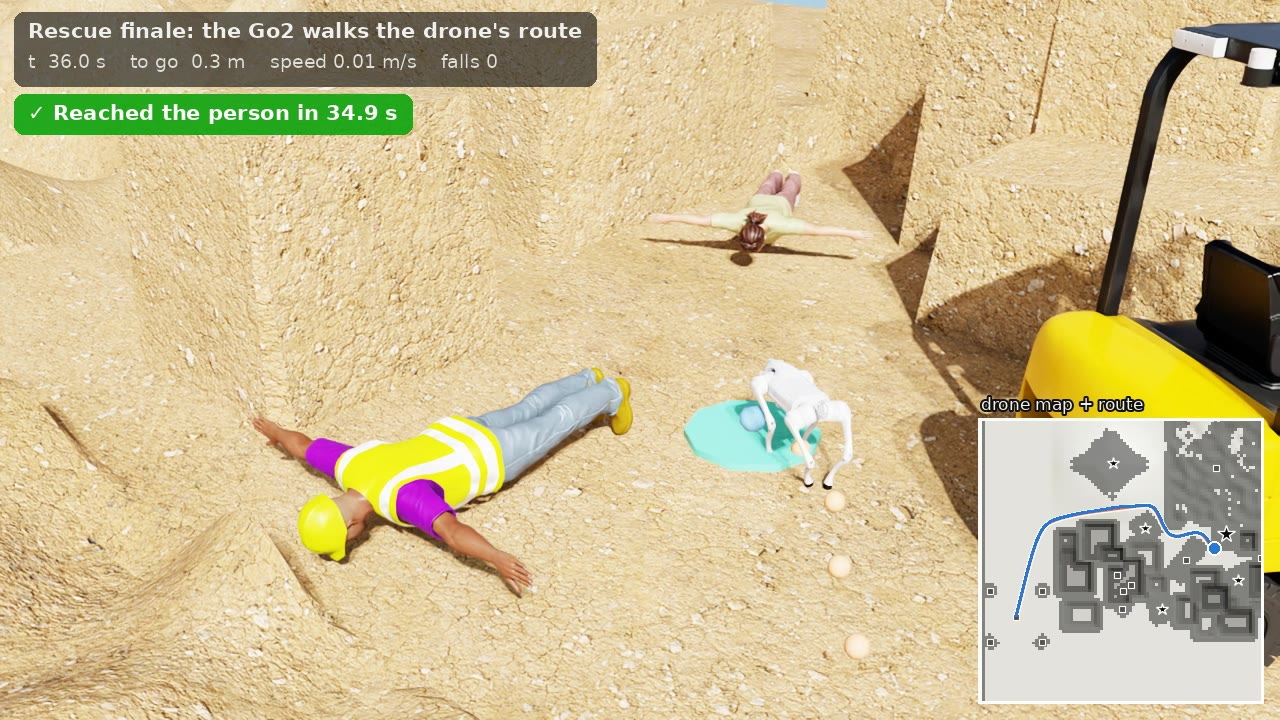
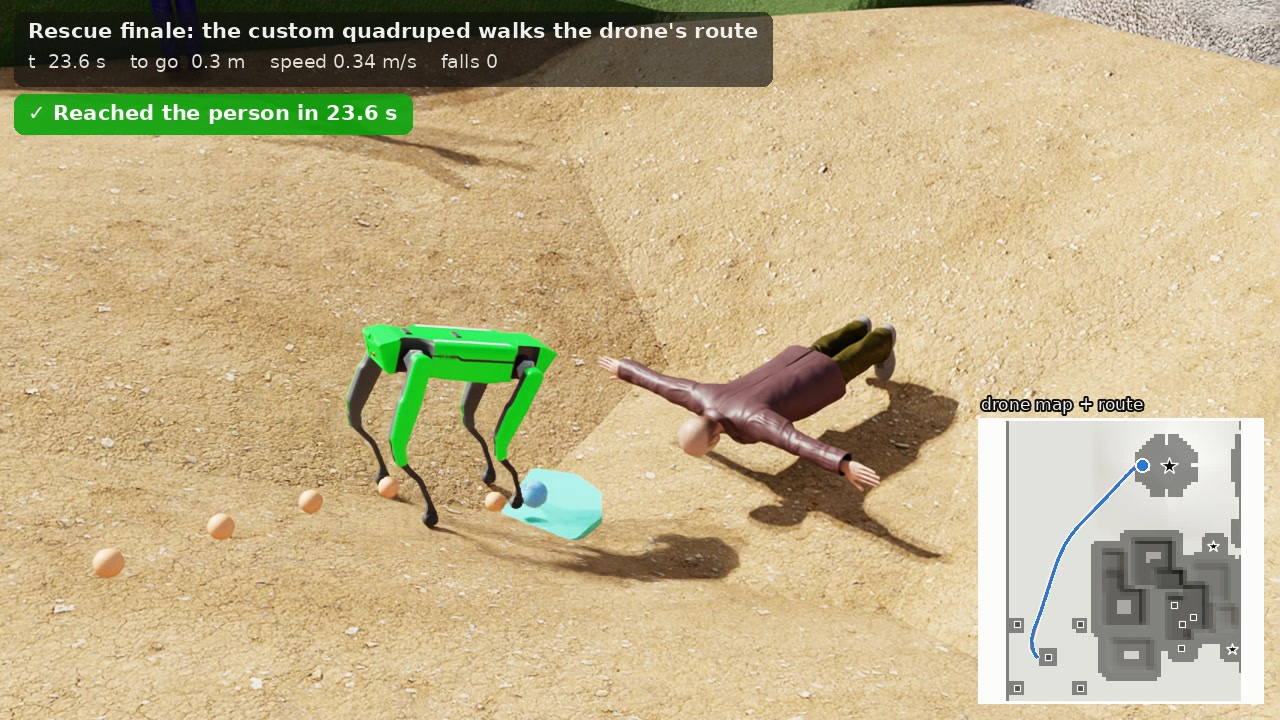
Document the rescue finale with the custom quadruped
The quadruped plans on the full mission's report and walks down into
the crater to the person the drone found: results of the 8-robot
checks on the mission reports, the survey map and the ground truth,
the planner limits of each robot, the PhysX fix for the textured
site, and the Go2 fallback.

diff --git a/sim/src/drone_lab/teaming/README.md b/sim/src/drone_lab/teaming/README.md
@@ -1,15 +1,17 @@
 # Rescue finale: air-ground teaming
 
-After the drone's survey, a ground robot (a Unitree Go2 running Isaac Lab's rough-terrain locomotion policy) gets
-the drone's elevation map and the person pins. It plans a safe route over the rubble and walks to a person.
+After the drone's survey, a ground robot gets the drone's elevation map and the pins of what it found, plans a safe
+route over the rubble and walks to a person. The robot is Hector's own quadruped (`quadruped_lab`, the converted
+Isaac Lab 2.x height-scan policy) on Isaac Sim PhysX, the same backend as the drone mission, on the same seeded
+terrain and dressed disaster site. A Unitree Go2 on Newton is the fallback.
 
 ```
 drone elevation map ─┐
    (or ground truth) │   traversability.py           planner.py                  follower.py               Isaac Lab
-pins (people, props) ┴─► slope / step / roughness ─► cost-weighted 8-conn. A* ─► pure pursuit ─────────► Go2 policy
-                         + object footprints          start/goal snapping         (vx, vy, yaw rate)        (unchanged)
-                         + robot-radius inflation     shortcuts + smoothing       clipped to the policy's   walks on the
-                         = cost map (inf = no-go)     = route                     command ranges            same terrain
+pins (people, props) ┴─► slope / step / roughness ─► cost-weighted 8-conn. A* ─► pure pursuit ─────────► locomotion
+                         + object footprints          start/goal snapping         (vx, vy, yaw rate)        policy
+                         + robot-radius inflation     shortcuts + smoothing       clipped to the policy's   (unchanged)
+                         = cost map (inf = no-go)     = route                     command ranges
 ```
 
 ## Run it
@@ -18,93 +20,120 @@ From `~/isaac_ws/projects/drone_lab`, in `env_isaaclab` (`source ~/anaconda3/etc
 activate env_isaaclab`):
 
 ```bash
-# CPU only: plan on the terrain ground truth and write runs/<out>/plan.png + plan.json
+# CPU only: plan on the ground truth of the mission's site (seed 0) and write runs/<out>/plan.png + plan.json
 CUDA_VISIBLE_DEVICES= python scripts/rescue_finale.py --plan_only --out rescue_plan
 
-# walk it with the Go2 (Newton physics, the backend the checkpoint was trained on) and record the follow-cam video
-python scripts/rescue_finale.py --video --out rescue_gt
+# walk it with the custom quadruped (Isaac Sim PhysX) and record the follow-cam video
+python scripts/rescue_finale.py --video --out finale
 
-# the dressed disaster site the drone flies over (people, props, ground materials); the robot starts on the
-# landing pad and walks to a person picked from the site's ground truth (about 20 m away, reachable)
-python scripts/rescue_finale.py --sar_seed 0 --video --out rescue_sar0
-python scripts/rescue_finale.py --sar_seed 0 --goal_pin person_08 --video --out crater   # a chosen person
+# 8 robots on the same route at once (small spawn jitter): success rate, falls, times
+python scripts/rescue_finale.py --num_envs 8 --out finale_x8
 
-# from a drone run: its elevation map and pins (drone_lab survey run or drone_gcs run directory)
-python scripts/rescue_finale.py --run runs/<survey_run> --pins <detections.json> --video --out from_drone
-# the drone's survey map of the plain terrain + the dressed site's people and props (exact footprints)
-python scripts/rescue_finale.py --run runs/lawnmower_v1 --sar_seed 0 --video --out rescue_drone_sar0
+# from the drone mission: its map and pins (a drone_gcs report directory, or a drone_lab survey run)
+python scripts/rescue_finale.py --report ~/isaac_ws/projects/drone_gcs/runs/<mission> --video --out from_drone
+python scripts/rescue_finale.py --report runs/lawnmower_v1 --video --out from_survey   # map only: site pins
 
-# the drone mission's backend (Isaac Sim PhysX) resolves too, but today's Go2 checkpoint (trained on Newton) does
-# not walk there: it flips within 1-2 s (see "Physics backend" below)
-python scripts/rescue_finale.py --physics isaacsim_physx --video --out rescue_physx
+# another person, stricter limits, another site
+python scripts/rescue_finale.py --goal_pin person_04 --video --out person04
+python scripts/rescue_finale.py --max_slope 22 --video --out rim                    # stays on the crater rim
+python scripts/rescue_finale.py --sar_seed 3 --video --out site3
 
-# several robots on the same route at once (small spawn jitter): a success rate
-python scripts/rescue_finale.py --num_envs 8 --out rescue_x8
-```
-
-Watch it live in Isaac Lab's player (plans its own route on the stage terrain at start-up, loops the walk):
-
-```bash
-PYTHONPATH=src isaaclab play --rl_library rsl_rl --external_callback drone_lab.register.register_tasks \
-    --task DroneLab-Rescue-Go2-v0 --viz kit \
-    --checkpoint ~/isaac_ws/IsaacLab/logs/rsl_rl/unitree_go2_rough/2026-11-01_15-38-28_demo_quadruped_cont/model_1498.pt
+# the Go2 fallback (Newton, the backend its checkpoint was trained on)
+python scripts/rescue_finale.py --robot go2 --video --out finale_go2
 ```
 
 Outputs in `runs/<out>/`: `plan.png` (elevation + traversability cost with the route), `plan.json` (route, pins,
-settings), `traversability.npz` (all layers), `walk.csv` (per step: pose, velocities, command, progress,
-cross-track error, distances, falls), `walk.png` (walked vs planned, speed, distance to the goal),
-`summary.json` / `summary.txt` (success, time, planned and walked length, falls, stop distance, clearance) and,
-with `--video`, `rescue.mp4`: a title card with the plan, the follow-cam walk with a minimap and a HUD, and an end
-card with the result. `rescue_share.mp4` is the same video about 5x smaller (x264 crf 26: 6-11 MB instead of
-29-55 MB) for a README or a chat.
+settings, and for a drone report which real person the goal pin marks), `traversability.npz` (all layers), `walk.csv`
+(per step: pose, velocities, command, progress, cross-track error, distances, falls), `walk.png` (walked vs planned,
+speed, distance to the goal), `summary.json` / `summary.txt` (success, time, planned and walked length, falls,
+stop distance, clearance; with several robots the success rate and every robot's result) and, with `--video`,
+`rescue.mp4`: a title card with the plan, the follow-cam walk with a minimap and a HUD, and an end card with the
+result. `rescue_share.mp4` is the same video about 5x smaller (x264 crf 26) for a README or a chat.
 
-**A drone map and the landing pad.** A `drone_lab` survey map covers the surveyed 40 m x 40 m terrain, but the
-landing pad (where the robot starts) sits on the flat 6 m border around it. When the start lies off the map, the
-planner adds that border to the map: the drone's cells stay as measured, the added cells that lie entirely on the
-border get its height (z = 0, the top of the generator's flat border; a test checks it against the terrain mesh),
-and terrain the drone did not see stays unknown (no-go). The log says so. `--no_apron` plans on the drone map
-alone; the start then moves onto the map edge, with a warning.
+**Inputs.** `--report` takes a `drone_gcs` mission report (`maps/elevation_mean.npy` + `maps/grid.json`, pins from
+`detections.json`, confirmed ones only) or a `drone_lab` survey run (`elevation_map.npy`; such a run has no pins, so
+the site's ground truth gives them). Without a report the planner uses the ground truth: the exact terrain mesh the
+simulator builds and the people and props of the dressed site (`--sar_seed`, default 0 = the mission's demo site),
+with their exact footprints. The simulator always spawns that site (`--plain_terrain`: the bare terrain with one
+person at the goal). With a report the goal pin is checked against the site's ground truth: the log, `plan.json` and
+the summary say which real person it marks and how far off the pin is.
 
-## Results (2026-11-01, RTX 5080, Newton physics)
+**The landing pad and the apron.** The robot starts on the drone's landing pad, which sits on the flat 6 m border
+around the surveyed area. A `drone_lab` survey map does not cover that border, and a `drone_gcs` map knows only the
+parts the drone happened to scan. The planner fills in the border: every cell that lies entirely on it and has no
+measurement gets its height (z = 0, the top of the generator's flat border; a test checks it against the terrain
+mesh), the drone's cells stay as measured, and terrain the drone did not see stays unknown (no-go). `--no_apron`
+plans on the drone map alone (a start off the map then moves onto the map edge, with a warning).
 
-| Run | Route | Outcome | Time | Planned / walked | Falls | Stopped from the person |
-|---|---|---|---|---|---|---|
-| `--video` (ground truth, default goal) | landing pad -> crater rim -> gap between collapsed buildings | reached | 33.0 s | 24.0 / 23.8 m | 0 | 1.56 m (body centre; lying) |
-| `--sar_seed 0 --video` (dressed site) | landing pad -> crater's west rim -> person_05 on the hill | reached | 25.8 s | 18.7 / 18.5 m | 0 | 0.88 m |
-| `--sar_seed 0 --goal_pin person_08 --max_slope 26 --video` | down into the crater (to z = -1.4 m) | reached | 21.6 s | 14.5 / 14.5 m | 0 | 1.89 m |
-| `--run runs/lawnmower_v1 --sar_seed 0 --video` (the drone's map, Isaac Sim survey) | landing pad -> north along the border -> crater rim -> person_03 lying among the collapsed buildings | reached | 34.9 s | 25.2 / 25.0 m | 0 | 1.53 m |
-| `--num_envs 8` x 2 routes x 2 checkpoints, no retries | default route; crater descent (`--goal -14.77 -4.85`) | 8/8 each | 32-35 s | 24.0 m; 24.1 m planned | 0 | - |
-| stress: `--max_slope 30 --max_step 0.2 --max_roughness 0.08`, 8 robots x 2 checkpoints | hill (`--goal -16 5`, up to z = 2.2 m); crater (down to z = -1.4 m) | 8/8 each | 22-43 s | 30.4 m; 14.6 m planned | 0 | - |
+## The robots (`robots.py`)
 
-Mean cross-track error 1.3-4.5 cm (max 6-17 cm). The policy is
-`IsaacLab/logs/rsl_rl/unitree_go2_rough/2026-11-01_15-38-28_demo_quadruped_cont/model_1498.pt`: today's 600-iteration
-Go2 run resumed for 900 more iterations on Newton. On the training curriculum it falls 4x less often
-(base-contact terminations 5.1 % vs 19.2 %, mean reward 26.9 vs 19.0); on the finale routes both checkpoints
-reach the person every time, so the planner's limits leave the robot a safety margin.
+| `--robot` | Policy | Physics | Planner limits |
+|---|---|---|---|
+| `custom` (default) | `quadruped_lab/checkpoints_2x/height_scanner_model_rslrl5.pt` (task `Isaac-Velocity-Rough-Custom-Quad-v0`) | Isaac Sim PhysX | slope 23 deg, step 0.15 m, roughness 0.05 m, robot radius 0.45 m, slope fit over 0.45 m |
+| `go2` | `IsaacLab/logs/rsl_rl/unitree_go2_rough/2026-11-01_15-38-28_demo_quadruped_cont/model_1498.pt` | Newton (MJWarp) | slope 22 deg, step 0.12 m, roughness 0.05 m, robot radius 0.35 m, slope fit over 0.35 m |
 
-**Physics backend.** The Go2 checkpoint was trained on Newton (`newton_mjwarp`), and the task uses Newton by
-default; the survey terrain, the dressed SAR site (MDL ground materials, props, people) and the Kit follow camera all
-work with it. On Isaac Sim PhysX (`--physics isaacsim_physx`) the same task and spawn fail: 4/4 robots flip within
-0.9-2.1 s, with either actuator execution path (`env.sim.use_newton_actuators=false` too), so it is a sim-to-sim gap of
-the checkpoint, not of the task. Sharing one PhysX scene with the drone would need a Go2 policy trained (or
-fine-tuned) with `physics=isaacsim_physx`.
+The custom quadruped trained on slopes up to 0.4 rise/run (21.8 deg), stairs up to 0.23 m, boxes up to 0.1 m and
+random rough ground up to 0.06 m. It is 0.89 m long and 0.47 m wide (feet included) and walks with its trunk about
+0.7 m up, so it gets a larger clearance than the Go2 and the slope is fitted over half its body length. Fitted that
+way, the crater walls of the demo site reach about 24 deg. At 23 deg the routes into the crater run down the fall
+line and end on the crater floor. At 24 deg the planner also takes the steepest parts of the wall: on the ground
+truth the robots still walked straight down them (8 of 8), but on the drone's map the last two metres then ran
+across the wall, and while slowing down for the goal the robots drifted 0.4 m downhill and ended beside the person's
+legs (still 8 of 8 reached). With `--max_slope 22` the route stays on the crater rim and stops on the slope 1.8-2.2 m
+from the person. The `--max_*` and `--robot_radius` flags override any limit; `--task`, `--checkpoint`, `--physics`,
+`--speed` and `--lookahead` override the robot's walk settings.
+
+## Results (2026-11-01, RTX 5080)
+
+**Custom quadruped, Isaac Sim PhysX, dressed site seed 0**, robots starting on the landing pad, 8 at once (small
+spawn jitter), no second tries:
+
+| Map and pins | Route | Robots reached | Time | Planned / walked | Falls |
+|---|---|---|---|---|---|
+| the drone mission's report (`drone_gcs/runs/sar_demo_seed0`: full survey, 9 of 9 people found) | border, then down the crater wall to the drone's pin of person_08 (0.24 m from the true centre) | 8/8 | 23.1-23.7 s | 16.1 / 15.9 m | 0 |
+| a partial mission report (`e2e_v2_gt`: the first 90 s of the flight, 5 people found) | border, past the crates to the drone's pin of person_02 (0.15 m off) | 8/8 | 20.0-20.9 s | 12.8 / 12.7 m | 0 |
+| the drone's survey map `runs/lawnmower_v1` (no detections: site pins) | down the crater wall to person_08 | 8/8 | 23.2-23.7 s | 16.0 / 15.7 m | 0 |
+| ground truth (default) | down the crater's south-west wall to person_08, lying face down on the crater floor (z = -1.1 m) | 8/8 | 22.5-23.1 s | 15.6 / 15.4 m | 0 |
+| ground truth, `--goal_pin person_04` | past the collapsed buildings to person_04, lying face up | 8/8 | 29.7-30.1 s | 18.6 / 18.4 m | 0 |
+| ground truth, `--max_slope 22` | along the crater's north rim, stops on the slope above person_08 | 8/8 | 35.0-35.8 s | 23.7 / 23.1 m | 0 |
+
+Mean cross-track error 2-6 cm (max 10-32 cm), walking speed 0.55-0.65 m/s at a cruise command of 0.7 m/s. The robots
+stop 1.2-2.2 m from the person's centre (the person's outline or, for a drone pin, a 1.2 m circle, plus the robot's
+clearance); from the full mission report 1.35-1.68 m from the real person's centre. With `--video` (one robot): the
+mission report 23.6 s, the ground truth 22.7 s, no falls. In the mission report the detector also pinned a "barrel"
+4.3 m above the landing pad (one of its three false alarms); the planner keeps clear of every pin, so that robot
+starts 0.75 m west of the pad's centre.
+
+**Go2 fallback, Newton**, the same dressed site: `--robot go2 --num_envs 4` reached person_08 4/4 along the crater
+rim (its limits keep it off the steeper wall), 32.5-32.7 s, 23.7 m, 0 falls.
+
+## PhysX and the textured site
+
+The site textures the terrain by binding MDL ground materials to face subsets (`UsdGeom.Subset`, family
+`materialBind`) of the terrain mesh. On Isaac Sim PhysX a collision mesh with such subsets stops colliding with the
+robot: off the 4 cm landing-pad disk (a separate collider) the custom quadruped fell straight through the ground,
+and on the pad it stamped in place (0 m of progress in 7 s). Binding the terrain's physics material to every
+subset does not change that; without the subsets the robot walks normally. The drone never touches the terrain, so
+the mission is not affected. The rescue tasks therefore spawn the site with `tasks/rescue/site.py`: the site is
+unchanged, then the textured subsets move to a render-only copy of the terrain mesh (`/World/sar/ground_visual`) and
+the collision mesh, which keeps its geometry, collider and physics material, is hidden. The robot's height scanner
+reads that same collision mesh.
 
 ## How it works
 
 **Traversability** (`traversability.py`). For every cell of the elevation grid:
 
-* *slope*: a least-squares plane over a disk of `footprint_radius_m` (0.35 m) around the cell, in degrees;
+* *slope*: a least-squares plane over a disk of `footprint_radius_m` around the cell, in degrees;
 * *roughness*: the RMS residual of that plane fit;
 * *step*: the largest height jump to a cell within `step_radius_m` (0.25 m) after removing the local slope. The
   local slope is the *minmod* of the one-sided differences, so a smooth incline has no step while the flat side of
   a ledge sees the full ledge height.
 
-A cell is no-go when the slope exceeds 22 deg, the step 0.12 m or the roughness 0.05 m (the top of the Go2's
-training curriculum), when nothing is known there (never seen by the drone), or when it lies inside a known object
-footprint (circles per class, or the exact outline from a ground-truth file). No-go cells are inflated by the robot
-radius (0.35 m), and a soft band beyond that keeps the route off edges when there is room. Free cells cost
-`1 + 6 (slope/22)^2 + 4 (step/0.12)^2 + 3 (roughness/0.05)^2 + band` per metre, so flat open ground costs 1 and
-the planner pays for every degree and every centimetre.
+A cell is no-go when the slope, the step or the roughness exceeds the robot's limit, when nothing is known there
+(never seen by the drone), or when it lies inside a known object footprint (circles per class, or the exact outline
+from a ground-truth file). No-go cells are inflated by the robot radius, and a soft band beyond that keeps the route
+off edges when there is room. Free cells cost `1 + 6 (slope/max)^2 + 4 (step/max)^2 + 3 (roughness/max)^2 + band`
+per metre, so flat open ground costs 1 and the planner pays for every degree and every centimetre.
 
 **Planner** (`planner.py`). 8-connected A* where a move costs its length times the mean cost of its two cells, with
 an octile heuristic scaled by the cheapest cell (admissible, so the path is optimal on the grid; a test checks it
@@ -112,36 +141,49 @@ against Dijkstra). Diagonal moves may not cut the corner of a no-go cell. The st
 the goal (a person, whose own cells are no-go) snaps to the nearest free cell *reachable from the start*, so the
 robot stops next to the person. The grid path is then shortcut by line of sight (never through a no-go cell, never
 more expensive than the stretch it replaces), its corners are rounded where that stays safe, and it is resampled
-every 0.1 m.
+every 0.1 m. Without `--goal` / `--goal_pin` the script tries the people 15-25 m from the start first, lying ones
+first, nearest to 20 m first, and takes the first one it can reach.
 
 **Follower** (`follower.py`). Pure pursuit: the closest point on the route is searched only around the previous
 progress (so a route that folds back is never skipped), the target is 0.8 m further along, and the robot steers on
 the arc through it (`kappa = 2 sin(alpha) / L`). Speed drops on tight arcs, when the target is off to the side and
 over the last metre; above 1 rad of heading error the robot turns on the spot. A small sideways velocity pulls it
 back onto the route. Every command is clipped to the policy's training ranges (`vx, vy, yaw rate` in [-1, 1]); the
-minimum driving speed is 0.3 m/s because the policy stands still for much smaller commands.
+minimum driving speed is 0.3 m/s because the policies stand still for much smaller commands.
 
-**Task** `DroneLab-Rescue-Go2-v0` (`drone_lab/tasks/rescue/`). The config is Isaac Lab's
-`Isaac-Velocity-Rough-UnitreeGo2` with only what the finale needs changed (`apply_rescue_task`, robot-agnostic):
-the survey terrain (`SURVEY_TERRAIN_CFG`, same seed: the same mesh the drone mapped), the `base_velocity` command
-replaced by the path-following command under the same name (the policy observation `velocity_commands` reads it
-unchanged), observation noise off, deterministic events (no mass / CoM randomisation, no pushes), the robot spawned
-on the route, a flip check and a `goal_reached` time-out. The policy observations (235 values: base velocities,
-gravity, command, joints, last action, 187-ray height scan) are identical to the training task, so the Go2
-checkpoint drives it as is. After a fall the robot respawns where it fell (`--retries`, default 2); falls are
-counted in the summary.
+**Tasks** (`drone_lab/tasks/rescue/`). `apply_rescue_task` (robot-agnostic) turns a velocity-tracking config into the
+rescue task: the survey terrain (`SURVEY_TERRAIN_CFG`, same seed: the same mesh the drone mapped), optionally dressed
+as the SAR site of a seed, the `base_velocity` command replaced by the path-following command under the same name
+(the policy observation `velocity_commands` reads it unchanged), observation noise off, deterministic events (no
+mass / centre-of-mass randomisation, no pushes), the robot spawned on the route, a flip check and a `goal_reached`
+time-out. The policy observations (235 values: base velocities, gravity, command, joints, last action, 187-ray
+height scan) are those of the training task, so the checkpoints drive the robots as they are.
+
+* `DroneLab-Rescue-CustomQuad-v0`: `quadruped_lab`'s `CustomQuadRoughEnvCfg` (same robot, actuators, actions,
+  observations, command ranges, falls = trunk or thigh contact as in training) on the dressed site of seed 0
+  (`env.scene.sar_site.spawn.seed=<n>`). Isaac Sim PhysX only, with the two execution settings under which the
+  converted 2.x checkpoint walks as it did in Isaac Lab 2.3.2 (`quadruped_lab/PORT_NOTES.md`, section 14.2):
+  `sim.use_newton_actuators = False` and `enable_external_forces_every_iteration = False`. The robot respawns
+  0.719 m above the ground, its training reset height.
+* `DroneLab-Rescue-Go2-v0`: Isaac Lab's `Isaac-Velocity-Rough-UnitreeGo2` on Newton by default (its checkpoint flips
+  within about 2 s on PhysX, a sim-to-sim gap of that checkpoint), on the plain terrain with one person unless the
+  script adds the site.
+
+After a fall the robot respawns where it fell, a little behind (`--retries`, default 2); falls are counted.
 
 ## Tests
 
 ```bash
 ~/anaconda3/bin/python -m pytest tests/test_teaming_*.py          # CPU (the task tests skip without Isaac Lab)
-CUDA_VISIBLE_DEVICES= python tests/test_teaming_task.py              # env_isaaclab: task config + CLI plan mode
+CUDA_VISIBLE_DEVICES= python tests/test_teaming_task.py              # env_isaaclab: task configs + CLI plan mode
 CUDA_VISIBLE_DEVICES= python tests/run_cpu_tests.py                  # env_isaaclab: the whole project, these included
 ```
 
 Traversability on synthetic grids (planes, ledges, noise, holes, footprints, inflation), A* optimality against
 Dijkstra and obstacle avoidance, snapping and smoothing, failure reasons (a start off the map or boxed in is
 reported once, not once per person), follower limits / steering / goal / progress and a closed-loop run on an
-S-curve, input formats and figures, the border added around a survey map (lattice kept, drone cells unchanged,
-equal to the terrain mesh, start on the landing pad from the CLI), and the task config's parity with the Go2
-training task.
+S-curve, input formats and figures, the apron (added around a survey map, filled in on a site-sized map; drone
+cells unchanged, equal to the terrain mesh), both rescue tasks' parity with the velocity task their checkpoint was
+trained on (observations, actions, robot, sensors, command ranges, physics settings), the textured site terrain
+moved to a render-only mesh (in-memory USD stage), the robot profiles, and the CLI on the ground truth, a survey map
+and a drone_gcs mission report (start on the landing pad, drone pins only, the goal pin checked against the truth).

diff --git a/sim/README.md b/sim/README.md
@@ -149,43 +149,53 @@ with the block walls). Closest approach to an obstacle: 2.4 m, the crown of a tr
 steps per second headless (1.7-2.1x real time) and the link costs it 0.9 ms per step. Comparison with the stock
 COCO detector, the geometry check with perfect boxes and the loop rates: the drone_gcs README (Results).
 
-## Rescue finale: a quadruped walks the route planned on the drone's map
+## Rescue finale: Hector's quadruped walks to a person the drone found
 
-After the survey, a ground robot goes to a person the drone found. A Unitree Go2, driven by Isaac Lab's
-rough-terrain locomotion policy (unchanged), gets the drone's elevation map and the pins of the people and objects.
-It works out where it can walk (slope, step height, roughness, object footprints, its own size), plans the cheapest
-safe route with A*, and follows it with pure pursuit. It starts on the drone's landing pad, which sits on the flat
-border just outside the surveyed area, so the planner adds that border to the drone's map. Commands, method and
-tests: [`src/drone_lab/teaming/README.md`](src/drone_lab/teaming/README.md).
+After the mission, a ground robot goes to a person the drone found. Hector's own quadruped
+(`quadruped_lab`, the converted Isaac Lab 2.x height-scan policy, unchanged) gets the drone's
+elevation map and its pins of people and objects from the ground station's mission report. It works out where it
+can walk (slope, step height, roughness, object footprints, its own size), plans the cheapest safe route with A*,
+and follows it with pure pursuit. It starts on the drone's landing pad and walks on Isaac Sim PhysX, the drone
+mission's backend, over the same seeded terrain and dressed site. Commands, method and tests:
+[`src/drone_lab/teaming/README.md`](src/drone_lab/teaming/README.md).
 
-![The Go2 next to the person after walking the route planned on the drone's map](docs/images/rescue_finale_arrival.jpg)
+![The quadruped next to the person in the crater, after walking the route planned on the drone's map](docs/images/rescue_finale_arrival.jpg)
 
-![The route planned on the drone's elevation map, and the traversability cost](docs/images/rescue_finale_plan.png)
+![The route planned on the drone's elevation map and pins, and the traversability cost](docs/images/rescue_finale_plan.png)
 
-*Dressed site seed 0, route planned on the drone's map of the survey `runs/lawnmower_v1`: from the landing pad north
-along the border, past the crater rim, to a person lying among the collapsed buildings. Top: the arrival in the
-follow-cam video (the minimap shows the route and the walked track). Bottom: the elevation the robot planned on and
-the traversability cost with the no-go cells.*
+*Planned on the report of the full mission (`drone_gcs/runs/sar_demo_seed0`: 9 of 9 people found): from the landing
+pad along the border and down the crater wall to person #34, whom the drone saw lying in the crater (the pin is
+0.24 m from person_08's true centre). Top: the arrival in the follow-cam video, with the minimap of the drone's map
+and the walked track. Bottom: the elevation the robot planned on (the drone's map plus the known flat border around
+the surveyed area) and the traversability cost with the no-go cells.*
 
-| Map the route was planned on | Person | Outcome | Planned / walked | Falls |
+| Map and pins | Person | 8 robots at once, no second tries | Planned route | Falls |
 |---|---|---|---|---|
-| the drone's survey map (`--run runs/lawnmower_v1 --sar_seed 0`) | person_03, lying among the blocks | reached in 34.9 s | 25.2 / 25.0 m | 0 |
-| terrain ground truth (default) | lying between the collapsed buildings | reached in 33.0 s | 24.0 / 23.8 m | 0 |
-| ground truth, dressed site (`--sar_seed 0`) | person_05, standing on the hill | reached in 25.8 s | 18.7 / 18.5 m | 0 |
-| same, `--goal_pin person_08 --max_slope 26` | person_08, down in the crater | reached in 21.6 s | 14.5 / 14.5 m | 0 |
+| the full mission's report (`--report <drone_gcs run>`) | pin #34, lying in the crater (person_08) | 8/8 reached, 23.1-23.7 s | 16.1 m | 0 |
+| the first 90 s of a mission (5 people found) | pin #30, lying next to the crates (person_02) | 8/8, 20.0-20.9 s | 12.8 m | 0 |
+| the drone's survey map `runs/lawnmower_v1` + the site's pins | person_08 in the crater | 8/8, 23.2-23.7 s | 16.0 m | 0 |
+| terrain + site ground truth (default without a report) | person_08 in the crater | 8/8, 22.5-23.1 s | 15.6 m | 0 |
+| ground truth, `--goal_pin person_04` | person_04, lying by the collapsed buildings | 8/8, 29.7-30.1 s | 18.6 m | 0 |
+| ground truth, `--max_slope 22` | person_08, from the crater rim | 8/8, 35.0-35.8 s | 23.7 m | 0 |
 
-With 8 robots at once on two routes and no second tries, the 600- and the 1500-iteration checkpoints both reached the
-person 8/8 times, also with looser limits (30 deg slopes, 0.2 m steps). The drone flies on Isaac Sim PhysX and the
-Go2 walks on Newton, the backend its policy was trained on (on PhysX this checkpoint flips within about 2 s), so
-they run as two simulations of the same seeded terrain.
+The pins do not say whether a person is lying or standing; the height of a pin above the mapped ground does (a
+lying person's back is at most 0.4 m up, a standing person's head 1.3-1.8 m), so the planner picks a lying person
+15-25 m away first and gives them a larger footprint. The site's textured terrain needed one change for walking
+robots: on PhysX a collision mesh with material face subsets stops colliding (the robot fell through the ground), so
+the rescue tasks move the textures to a render-only copy of the terrain mesh. The Unitree Go2 with Isaac Lab's
+rough-terrain policy remains as a fallback (`--robot go2`, on Newton: that checkpoint flips within about 2 s on
+PhysX); it reached the crater person 4/4.
 
 ```bash
 CUDA_VISIBLE_DEVICES= python scripts/rescue_finale.py --plan_only --out rescue_plan    # CPU, seconds: plan only
-python scripts/rescue_finale.py --run runs/lawnmower_v1 --sar_seed 0 --video --out rescue_drone_sar0   # GPU walk
+python scripts/rescue_finale.py --report ~/isaac_ws/projects/drone_gcs/runs/<mission> --video --out finale_mission
+python scripts/rescue_finale.py --video --out finale_gt                  # without a report: the ground truth
+python scripts/rescue_finale.py --num_envs 8 --out finale_x8             # 8 robots at once: success rate, falls
 ```
 
-Each run writes `runs/<out>/plan.png`, `walk.png`, `summary.txt` and, with `--video`, `rescue.mp4` plus
-`rescue_share.mp4` (about 5x smaller, for sharing).
+Each run writes `runs/<out>/plan.png`, `walk.png`, `summary.txt` and, with `--video`, `rescue.mp4` (a title card
+with the plan, the follow-cam walk with a HUD and a minimap, an end card with the result) plus `rescue_share.mp4`
+(about 5x smaller, for sharing).
 
 ## Layout
 
@@ -203,12 +213,13 @@ src/drone_lab/
   register.py       task-registration callback for the isaaclab CLI without pip install
   sar/              search-and-rescue site: assets, seeded scenario + ground truth, camera, spawner, labels,
                     mission plan
-  teaming/          rescue finale: traversability, A* planner, pure-pursuit follower, drone-map inputs, figures
+  teaming/          rescue finale: traversability, A* planner, pure-pursuit follower, inputs, robots, figures
   tasks/
     physics.py      physics preset (Isaac Sim PhysX)
     survey/         DroneLab-Survey-ARL-Robot-1-v0          (flies the built-in policy, not for training)
     sar/            DroneLab-SAR-ARL-Robot-1-v0             (the survey over the dressed site, with the camera)
-    rescue/         DroneLab-Rescue-Go2-v0                  (a Go2 walks a planned route; Newton physics)
+    rescue/         DroneLab-Rescue-CustomQuad-v0           (Hector's quadruped walks a planned route; PhysX)
+                    DroneLab-Rescue-Go2-v0                  (the Go2 fallback; Newton physics)
     track_trajectory/ DroneLab-TrackTrajectory-ARL-Robot-1-v0 (new RL task: follow moving references)
 scripts/
   survey_map.py     GPU: fly the survey with a trained policy, map, score, plot, video
@@ -219,7 +230,7 @@ scripts/
   sar_preview.py    GPU: render the SAR site (overview, photo map, drone frames) and check its scale and labels
   sar_mission.py    GPU: the search-and-rescue mission, streamed live to the drone_gcs ground station
   gen_yolo_dataset.py GPU: render the detector dataset (RGB + instance segmentation over many seeded sites)
-  rescue_finale.py  rescue finale: plan on the drone's map (CPU), walk it with the Go2 (GPU), follow-cam video
+  rescue_finale.py  rescue finale: plan on the drone's map (CPU), walk it with the quadruped (GPU), follow-cam video
 tests/              CPU tests (run_cpu_tests.py or pytest)
 docs/images/        Isaac Sim figures (isaac_*, sar_*) and CPU-pipeline previews (synthetic_*, area_preview)
 ```
